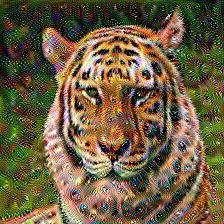
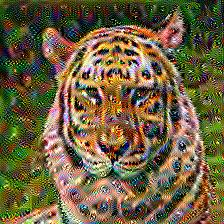
dreaming completed

diff --git a/dream.py b/dream.py
@@ -8,7 +8,7 @@ from PIL import Image
 #Configurations
 image_path = 'image_1.jpg'
 layer_name = 'block_9_add'
-steps = 500
+steps = 1000
 step_size = 0.01
 
 #Loading the Model
